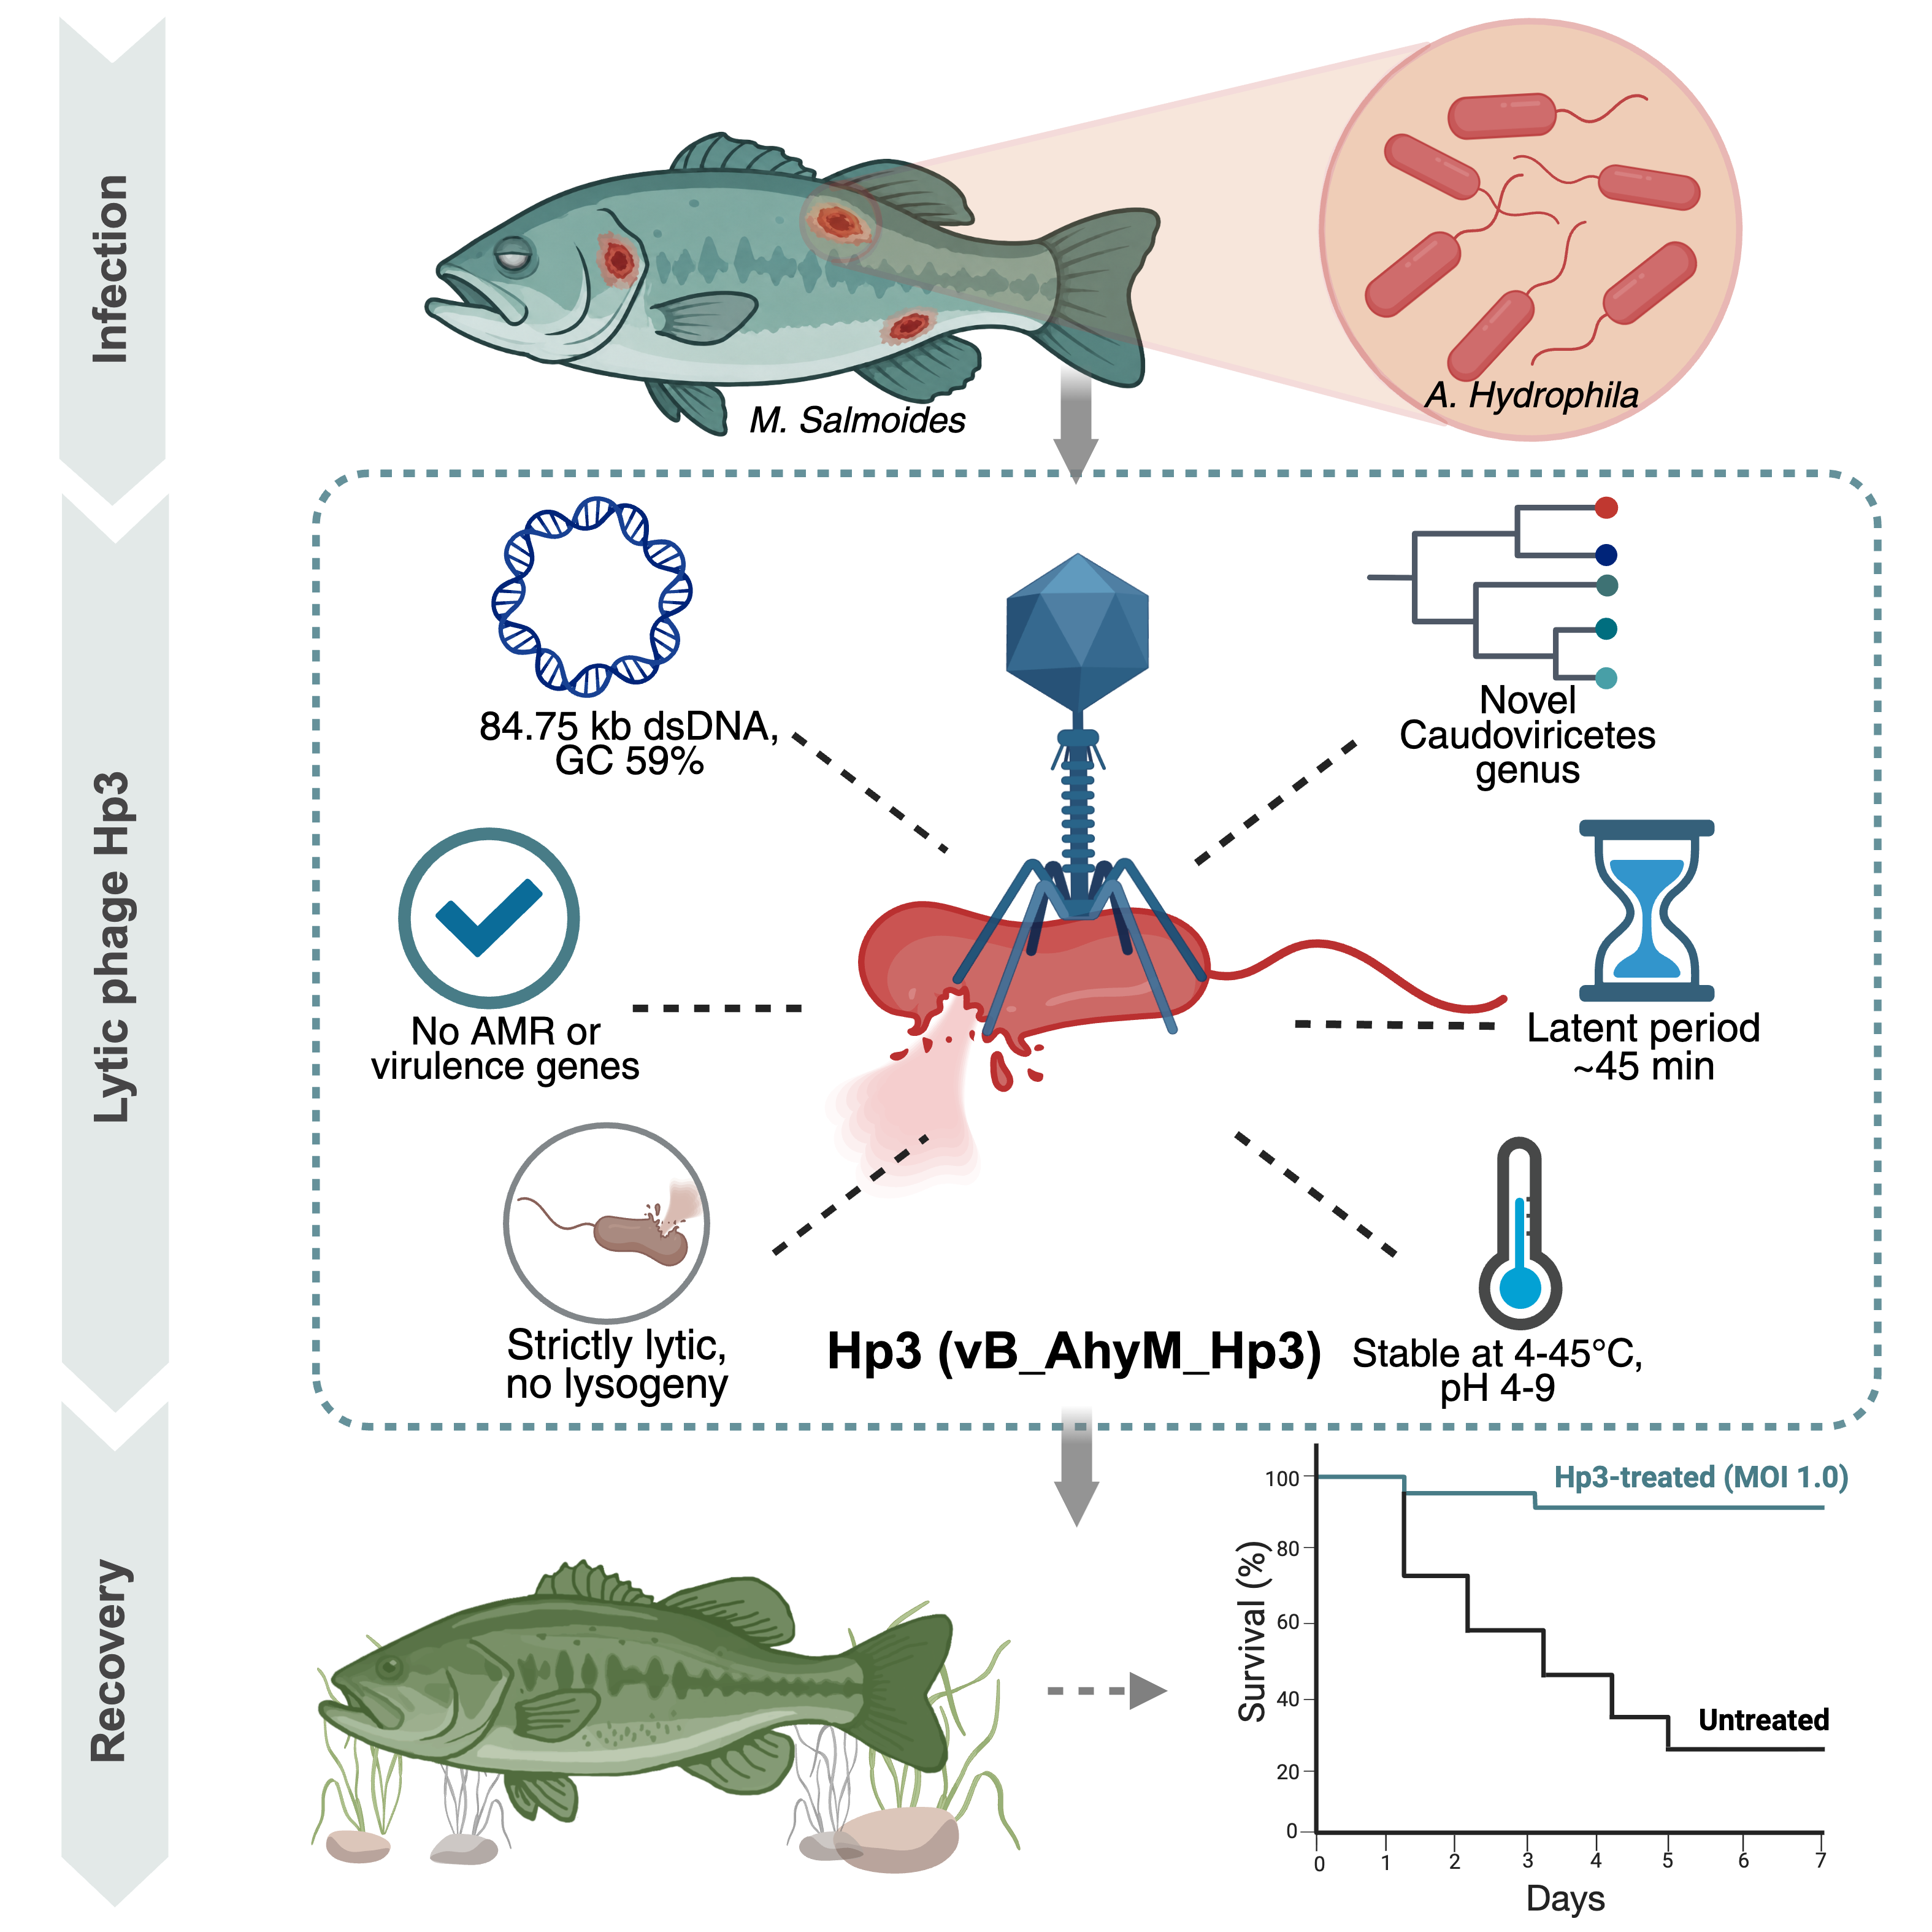
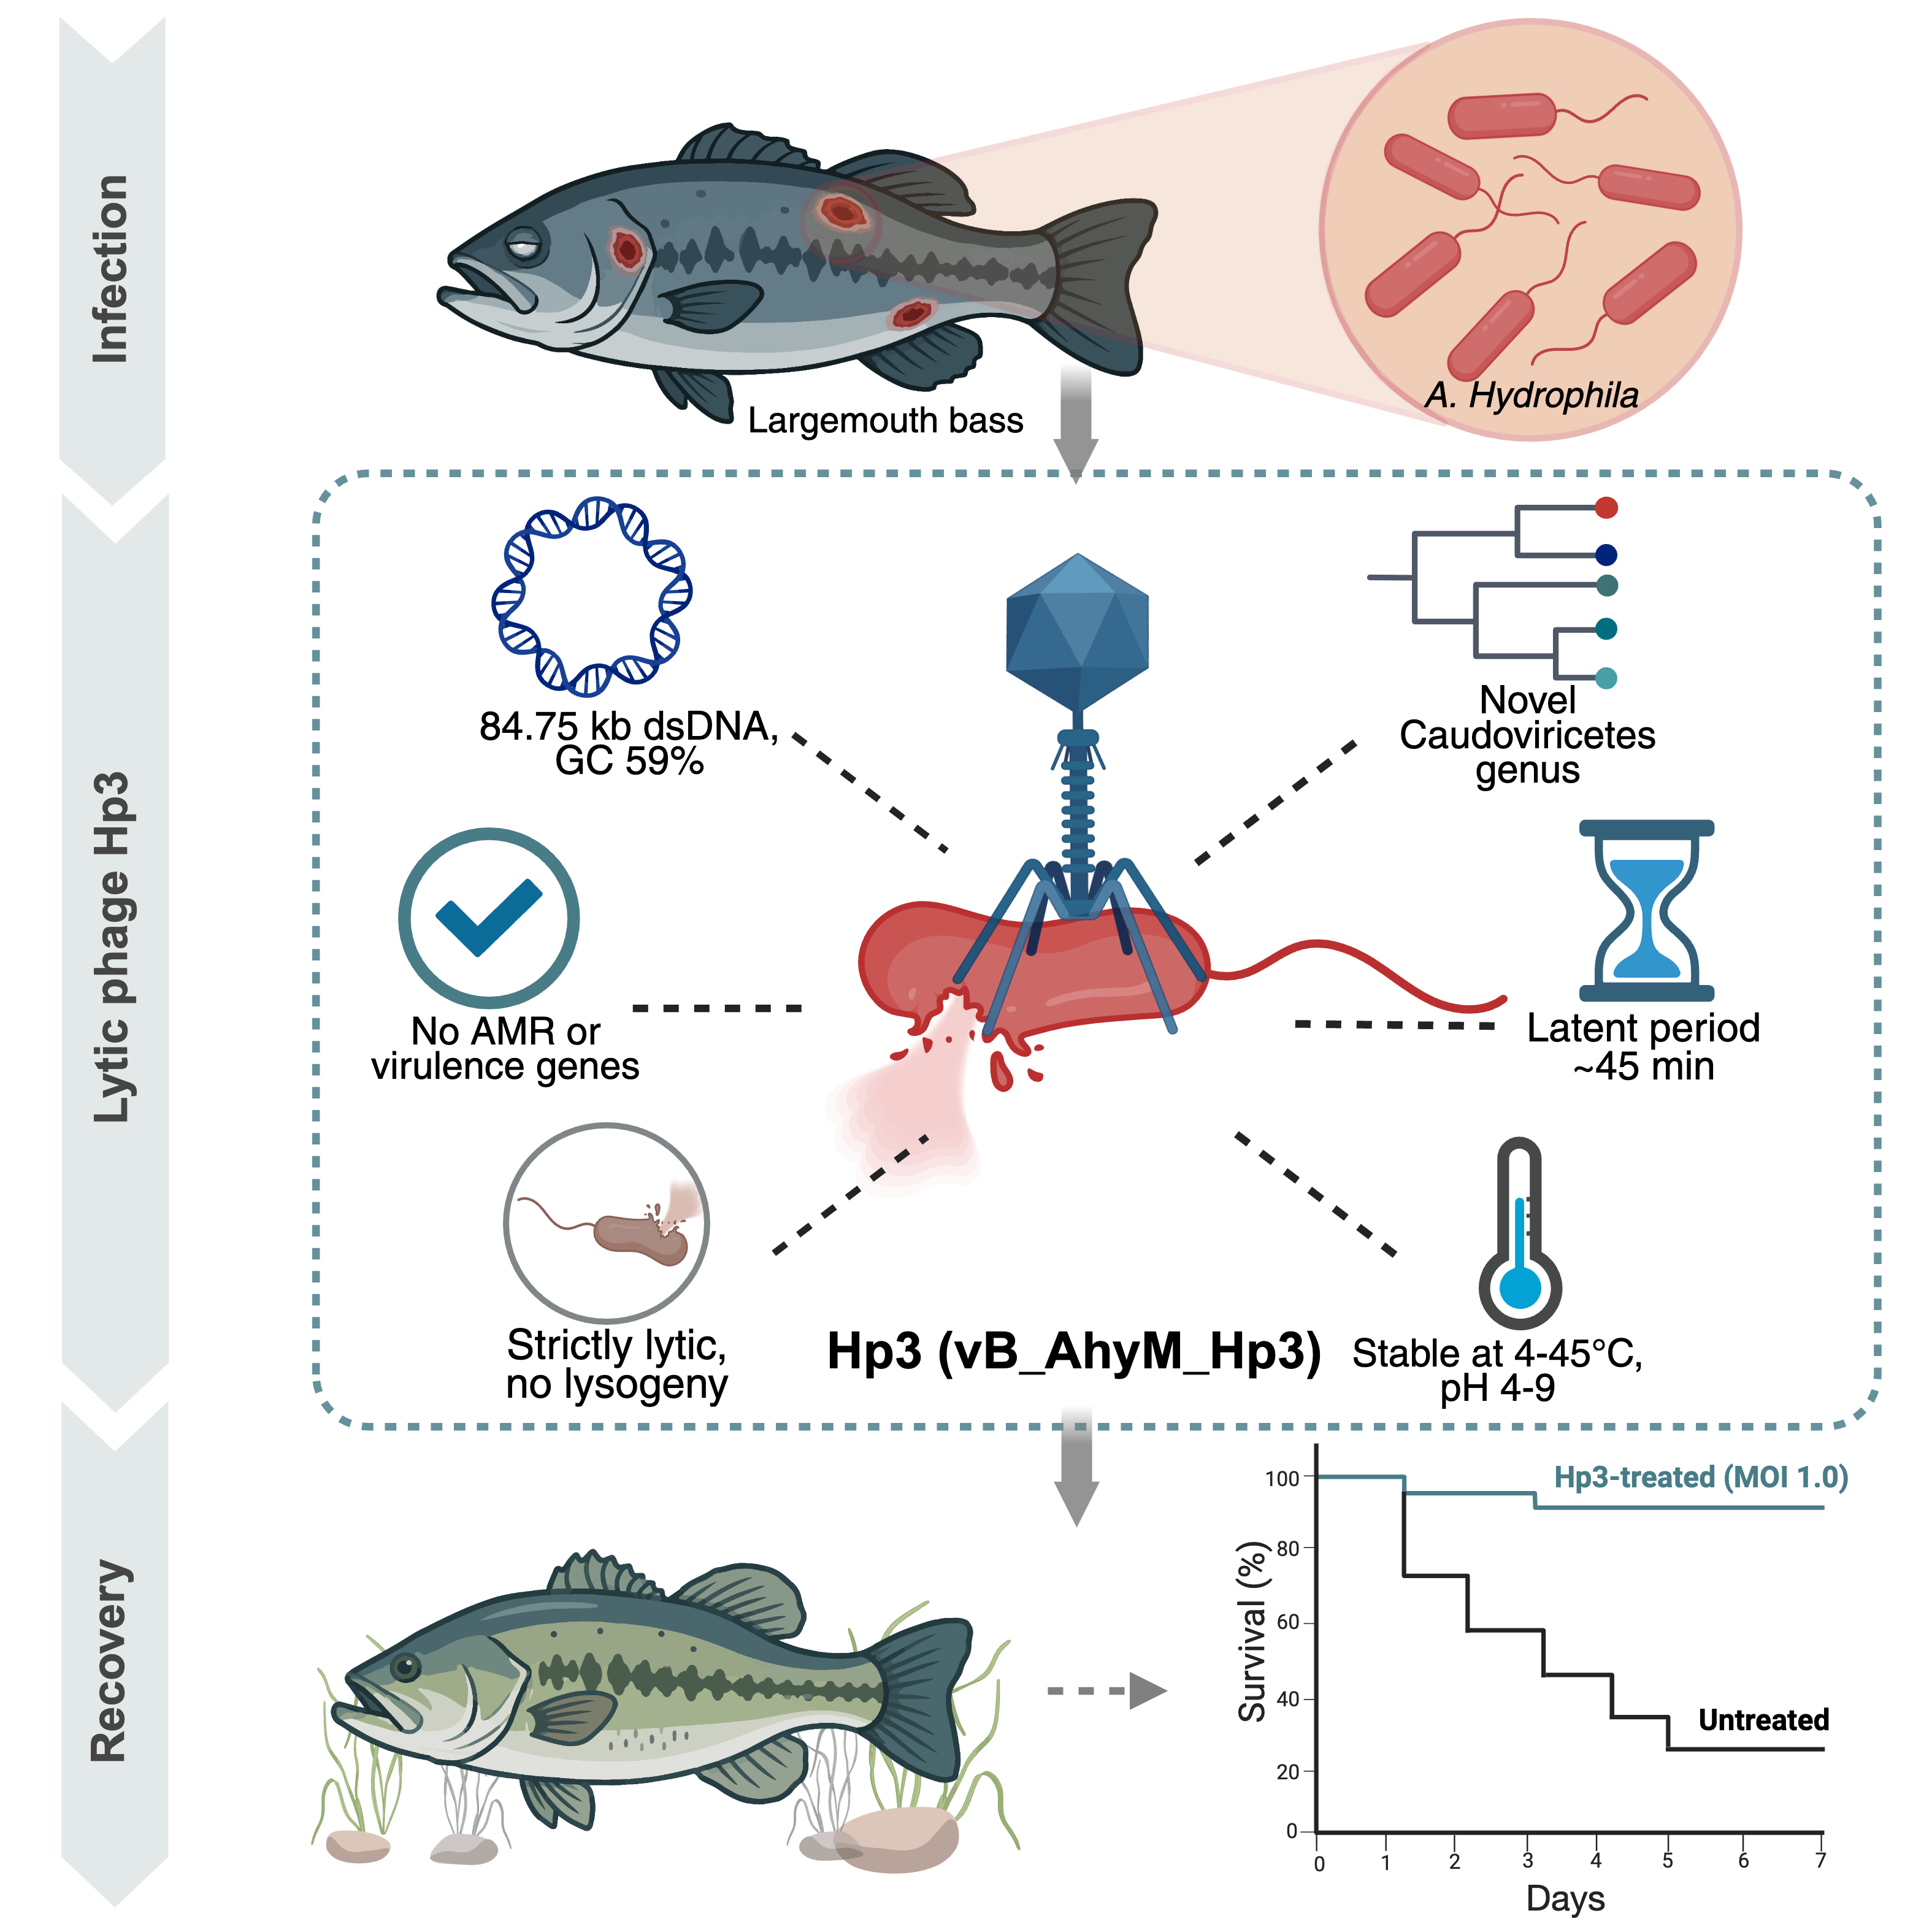
Fix blank figures in submission PDF (Ghostscript ICC bug); add Li Deng cover letter
Figures 1/4/5 rendered blank in Apple Preview and some Editorial Manager
viewers: Ghostscript pdfwrite had rewritten the images to an ICCBased
colorspace that Quartz fails to render (poppler/pdfimages still showed them,
which hid the bug through two wrong guesses — JPEG+SMask, then PNG alpha).
Root-caused by rendering pages with sips (Apple/Quartz engine).

- prepare-submission-figs.sh: flatten PNG alpha onto white + downsample
  fig1/4/5 at the source, so a plain xelatex build yields a compact (~6.5 MB)
  DeviceRGB PDF that renders everywhere; originals backed up to 121-figs/.orig-alpha/
- Makefile submit-pdf: drop Ghostscript (plain cp), document the ICC trap
- graphical_abstract.png: re-optimized (smaller file, same 3150px RGBA content)
- .gitignore: ignore the assembled submission .zip
- cover_letter-cr-deng.md: cover letter in Prof. Dr. Li Deng's name (Word source)
- pm.sqlite: DEC-D030 (submission package), EL-007/EL-008 (figure-blank root cause
  + "verify submission PDFs with an Apple engine, not poppler" rule)

Changed region(s): [[0.2178, 0.0622, 0.6222, 0.2489], [0.1556, 0.8089, 0.5289, 0.9644]]

diff --git a/manuscript/cover_letter-cr-deng.md b/manuscript/cover_letter-cr-deng.md
@@ -1,0 +1,41 @@
+**Prof. Dr. Li Deng**
+Technical University of Munich; Prevention of Microbial Diseases, TUM School of Life Sciences; Central Institute of Infection Prevention (ZIP)
+Helmholtz Centre Munich — Institute of Virology
[email redacted]
+
+3 June 2026
+
+The Editors
+Cell Press Multi-Journal Submission
+
+Dear Editors,
+
+I am pleased to submit our manuscript, **"A novel lytic *Aeromonas* bacteriophage rescues largemouth bass from lethal *Aeromonas hydrophila* infection,"** through Cell Press Multi-Journal Submission, and I ask that it be considered by *Cell Reports* and *iScience*.
+
+*Aeromonas hydrophila*, a leading pathogen of global freshwater aquaculture, is increasingly multidrug-resistant, eroding antibiotic control and intensifying the search for sustainable alternatives such as phage therapy. Yet the phages of this globally important pathogen remain sparsely sampled at the genome level, and few candidate biocontrol phages have been characterized deeply enough to connect their evolutionary novelty to a measured therapeutic benefit. The conceptual advance of our study is to close that gap in a single isolate, linking three findings:
+
+1. **A highly distinct new viral genus.** Integrating nucleotide-level (VIRIDIC, 83.65% intergenomic similarity), whole-proteome (ViPTree), amino-acid genome-BLAST distance phylogeny (VICTOR), and protein-sharing network (vConTACT3) analyses, phage Hp3 and its closest relative HJ05 form a new, highly distinct genus within the class *Caudoviricetes* — with no more than 0.073 whole-proteome similarity to any classified virus and clear separation from all established families. This places Hp3 in an under-explored region of viral sequence space and indicates that the phages of a globally important aquaculture pathogen remain substantially undersampled.
+
+2. **Demonstrated *in vivo* efficacy and host safety.** A single administration (multiplicity of infection 1.0) increased the seven-day survival of largemouth bass from 15% to 85% under lethal challenge, while fish receiving phage alone showed 100% survival with no histopathology.
+
+3. **A genomically safe, well-defined biocontrol candidate.** Hp3 carries no antibiotic-resistance genes and no known virulence determinants, and exhibits rapid lytic kinetics with broad temperature and pH stability.
+
+We believe the work suits both journals. Its combination of a highly distinct new viral lineage and a clear *in vivo* therapeutic outcome offers the broad, cross-disciplinary interest sought by *Cell Reports*; and its rigorous, multi-method genomic and *in vivo* characterization — linking the discovery of a genomically distinct virus to a measurable survival benefit — fits the technically sound, multidisciplinary scope of *iScience*. We are happy to be routed to whichever journal the editors judge the best fit.
+
+The manuscript is original, has not been published previously, and is not under consideration elsewhere. As a corresponding author, I consent to its publication and confirm that the content and authorship of this manuscript have been approved by all authors; the authors declare no competing interests. All raw sequencing data and assembled genomes are openly available in NCBI BioProject PRJNA1348731 (Hp3 genome under GenBank PX754746.1); figure source data are deposited in Figshare (10.6084/m9.figshare.30500525) and the analysis code is archived in Zenodo (10.5281/zenodo.17454899). All animal experiments followed the ARRIVE guidelines and were approved by the Institutional Animal Care and Use Committee (approval no. NWAFU-314020038).
+
+**Suggested reviewers** (none has a conflict of interest; none is a recent collaborator or co-author of the authors):
+
+- **Evelien M. Adriaenssens**, Quadram Institute Bioscience, Norwich, UK ([email redacted]) — bacteriophage genomics and prokaryotic virus taxonomy; Chair of the ICTV Bacterial Viruses Subcommittee (*Caudoviricetes* classification framework).
+- **Andrew D. Millard**, University of Leicester, UK ([email redacted]) — bacteriophage comparative genomics, reference-genome curation, and therapeutic phages.
+- **Mao Lin**, Fisheries College, Jimei University, Xiamen, China ([email redacted]) — *Aeromonas* and aquaculture bacteriophage genomics and phage therapy (host-range and genome characterization).
+- **Jianguo Su**, College of Fisheries, Huazhong Agricultural University, Wuhan, China ([email redacted]) — fish antibacterial immunity and *A. hydrophila in vivo* challenge models.
+- **Lingbing Zeng**, Yangtze River Fisheries Research Institute, Chinese Academy of Fishery Sciences, Wuhan, China ([email redacted]) — fish pathology and largemouth bass (*Micropterus salmoides*) disease models.
+
+I thank you for considering our work and look forward to your response.
+
+Sincerely,
+
+**Prof. Dr. Li Deng**
+on behalf of all authors
+(co-corresponding authors: Li Deng, Gaoxue Wang, and Jinlong Ru)